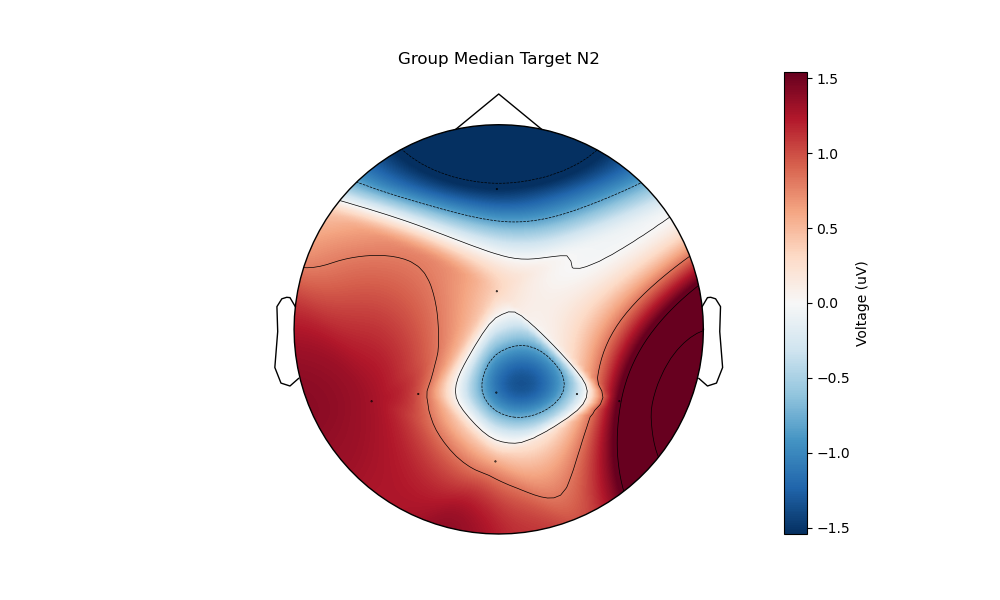
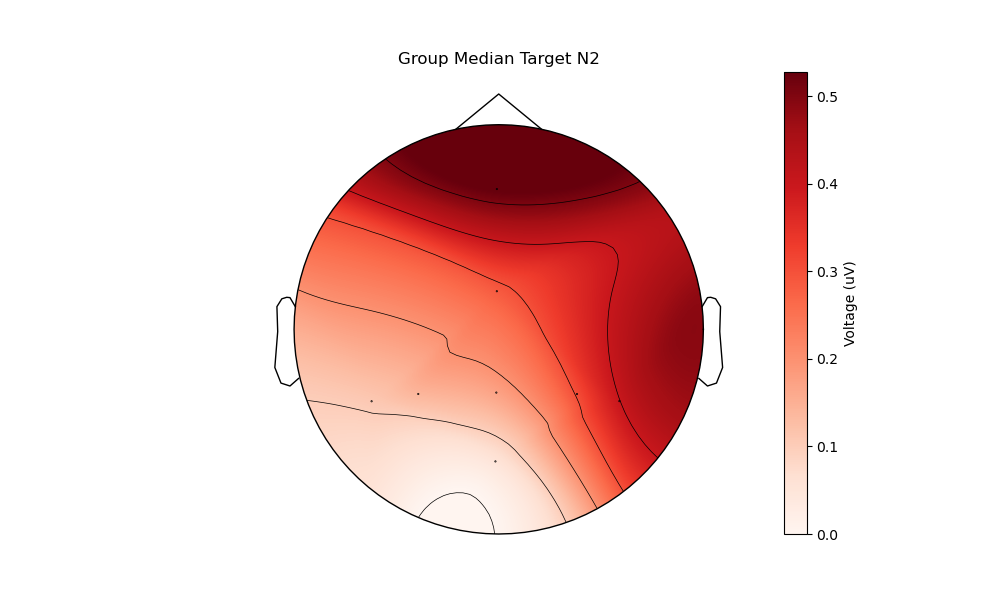
Final few pushes

Changed region(s): [[0.279, 0.21, 0.713, 0.9], [0.775, 0.18, 0.868, 0.9], [0.806, 0.12, 0.837, 0.18]]

diff --git a/plot_p300_data.py b/plot_p300_data.py
@@ -27,8 +27,8 @@ from matplotlib import pyplot as plt
 from load_p300_data import load_training_eeg
 from plot_p300_erps import get_events, epoch_data, get_erps
 from mne.stats import fdr_correction
-from plot_topo import plot_topo
-
+from plot_topo import plot_topo, get_channel_names
+import itertools
 #%% Part A: Load and Epoch the Data
 
 def load_erp_data(subject=3, data_directory='P300Data/', epoch_start_time=-0.5, epoch_end_time=1.0):
@@ -74,6 +74,7 @@ def load_erp_data(subject=3, data_directory='P300Data/', epoch_start_time=-0.5, 
     # calculate ERPs
     target_erp, nontarget_erp = get_erps(eeg_epochs, is_target_event) # get ERPs (mean EEG data)
     
+    
     return is_target_event, eeg_epochs, erp_times, target_erp, nontarget_erp
 
 #%% Part B: Calculate & Plot Parametric Confidence Intervals
@@ -109,6 +110,11 @@ def plot_confidence_intervals(eeg_epochs, erp_times, target_erp, nontarget_erp, 
     target_count = len(eeg_epochs[is_target_event])
     nontarget_count = len(eeg_epochs[~is_target_event])
     channel_count = eeg_epochs.shape[2]
+    
+    # Printing counts to make sure they are the numbers that we want 
+    print("shape of target_count to find the target_standard error:", target_count)
+    print("shape of target_count to find the nontarget_standard error:", nontarget_count)
+    print("channel_count for indexing and plotting the confidence intervals:", channel_count)
     
     # plot ERPs for events for each channel
     figure, channel_plots = plt.subplots(3,3, figsize=(10, 6))
@@ -163,6 +169,9 @@ def plot_confidence_intervals(eeg_epochs, erp_times, target_erp, nontarget_erp, 
     
     # save image
     plt.savefig(f'P300_S{subject}_channel_plots.png')
+    
+    
+    
 
 #%% Part C: Bootstrap P Values
 
@@ -193,6 +202,7 @@ def bootstrap_erps(eeg_epochs, is_target_event):
     
     # sample random indices for each channel separately
     random_indices = np.random.randint(event_count, size=event_count)
+   
     
     # randomly sampled EEG data
     eeg = eeg_epochs[random_indices]
@@ -264,6 +274,7 @@ def calculate_p_values(sampled_target_erp, sampled_nontarget_erp,target_erp, non
     real_erp_difference = test_statistic(target_erp, nontarget_erp) # identify real test statistic, difference between the target_erp and nontarget_erp data 
     bootstrapped_erp_difference = test_statistic(sampled_target_erp, sampled_nontarget_erp) # identify bootsrapped test statistic, difference between the sampled target and nontarget data
     
+   
     # preallocate p-value array
     p_values = np.zeros([sample_count, channel_count])
     
@@ -357,7 +368,8 @@ def plot_false_discovery_rate(eeg_epochs, erp_times, target_erp, nontarget_erp, 
         
         # generate times to plot
         is_significant = np.array(np.where(corrected_p_values[0, :, channel_index] == 1)) # evaluate across all samples for a channel when  p_value < fdr_threshold
-
+    
+        
         for significant in is_significant[0]: # this index [0] is the boolean index
             
             significant_times[channel_index].append(erp_times[significant]) # add the list of significant time points (conversion obtained by indexing erp_times) to significant_times in the channel index
@@ -391,7 +403,7 @@ def plot_false_discovery_rate(eeg_epochs, erp_times, target_erp, nontarget_erp, 
     
     # save image
     plt.savefig(f'P300_S{subject}_channel_plots_with_significance.png')  # save as image
-    
+    print("shape of the significant time points array:", np.array(significant_times).shape)
     return significant_times
 
 #%% Part E: Evaluate Across Subjects
@@ -468,6 +480,7 @@ def multiple_subject_evaluation(subjects=np.arange(3,11), data_directory='P300Da
                     if significant_times[channel_index][significant_index] == erp_times[time_index]: # compare if the time matches the erp_times index
                         subject_significance[channel_index,time_index] = subject_significance[channel_index,time_index]+1 # if the times do match, add 1 each time a subject is significant for that channel's sample
                         
+
     return erp_times, subject_significance
 
 def plot_subject_significance(erp_times, subject_significance):
@@ -519,11 +532,35 @@ def plot_subject_significance(erp_times, subject_significance):
     # save image
     plt.savefig('subject_significance_channel_plots.png')  
         
+ 
 
 #%% Part F: Plot a Spatial Map
 
 def plot_spatial_map(eeg_epochs, is_target_event, erp_times, subjects=np.arange(3,11), data_directory='P300Data/'):
+    
+    """
+    Description
+    -----------
+    This function plots spatial maps for the median target and nontarget ERPs (Event-Related Potentials)
+    across all subjects for N2 (200-300 ms) and P3b (300-500 ms) time ranges.
 
+    Parameters
+    ----------
+    eeg_epochs : ExSxC array of floats
+        EEG data from each channel at each event (epoch), where E is the number of epochs, S is the number of samples in each epoch, and C is the number of channels.
+    is_target_event : Ex1 Boolean array
+        Array indicating whether each event is a target (True) or nontarget (False).
+    erp_times : Sx1 array of floats
+        Array containing the times of each sample relative to the event onset in seconds.
+    subjects : array-like, optional
+        Subjects to include. Default is np.arange(3,11).
+    data_directory : str, optional
+        Directory where the ERP data is stored. Default is 'P300Data/'.
+
+    Returns
+    -------
+    None
+    """
     # declare lists for storing ERP data for each subject
     individual_median_erp_target = []
     individual_median_erp_nontarget = []    
@@ -544,7 +581,7 @@ def plot_spatial_map(eeg_epochs, is_target_event, erp_times, subjects=np.arange(
     individual_median_erp_nontarget = np.array(individual_median_erp_nontarget)
     
     # print to observe shape of array
-    print(individual_median_erp_target.shape) # (subject_count, sample_count, channel_count)
+    print("The shape of the median ERP for individual subject:", individual_median_erp_target.shape) # (subject_count, sample_count, channel_count)
     
     # calculate group median ERPs
     group_median_erp_target = np.median(individual_median_erp_target, axis=0)
@@ -555,13 +592,13 @@ def plot_spatial_map(eeg_epochs, is_target_event, erp_times, subjects=np.arange(
     
     n2_time_range = (0.2, 0.3)  # 200-300 ms
     n2_start_time, n2_end_time = n2_time_range
-    n2_start_index = np.argmin(np.abs(erp_times - n2_start_time))
-    n2_end_index = np.argmin(np.abs(erp_times - n2_end_time))
+    n2_start_index = np.argmin(np.abs(erp_times >= n2_start_time))
+    n2_end_index = np.argmin(np.abs(erp_times <= n2_end_time))
     
     p3b_time_range = (0.3, 0.5)  # 300-500 ms
     p3b_start_time, p3b_end_time = p3b_time_range
-    p3b_start_index = np.argmin(np.abs(erp_times - p3b_start_time))
-    p3b_end_index = np.argmin(np.abs(erp_times - p3b_end_time))
+    p3b_start_index = np.argmin(np.abs(erp_times >= p3b_start_time))
+    p3b_end_index = np.argmin(np.abs(erp_times <= p3b_end_time))
     
     # extract target and nontarget ERPs for N2 and P3b time ranges
     target_n2 = group_median_erp_target[n2_start_index:n2_end_index,:]
@@ -573,23 +610,26 @@ def plot_spatial_map(eeg_epochs, is_target_event, erp_times, subjects=np.arange(
     # make channel array to edit order once
     #channel_array = ['P7', 'P8','Oz','P3','Cz', 'Pz', 'P4','Fz']
     #channel_array = ['Oz','P7', 'P8','P3','Cz', 'Pz', 'P4','Fz']
-    channel_array = ['Fz','Cz','P3','Pz','P4','P7','Oz','P8']
-    
+    #channel_array = ['Fz','Cz','P3','Pz','P4','P7','Oz','P8']
+    # *channel_array = ['Oz','P7','P4','Pz','P3','Cz','Fz','P8']
+    #channel_array = ['Pz','P3','Cz','Fz','P8','Oz','P7','P4']
+    # 2: channel_array = ['Fz','Cz','P3','Pz','P4','P7','Oz','P8']
+    channel_array = ['P3','Fz','Cz','P4','Pz','P8','Oz','P7']
     # plot and save topomaps for N2 and P3b time ranges
-    # plt.figure(figsize=(10, 6))
-    # plot_topo(channel_array, channel_data=target_n2.T, title='Group Median Target N2', montage_name='standard_1020')
-    # plt.savefig('target_n2_topomap.png') 
+    plt.figure(figsize=(10, 6))
+    plot_topo(channel_array, channel_data=target_n2.T, title='Group Median Target N2', montage_name='standard_1020')
+    plt.savefig('target_n2_topomap.png') 
     
     plt.figure(figsize=(10, 6))
     plot_topo(channel_array, channel_data=nontarget_n2.T, title='Group Median Nontarget N2')
     plt.savefig('nontarget_n2_topomap.png') 
+        
+    plt.figure(figsize=(10, 6))
+    plot_topo(channel_array, channel_data=target_p3b.T, title='Group Median Target P3b')
+    plt.savefig('target_p3b_topomap.png') 
     
-    # plt.figure(figsize=(10, 6))
-    # plot_topo(channel_array, channel_data=target_p3b.T, title='Group Median Target P3b')
-    # plt.savefig('target_p3b_topomap.png') 
+    plt.figure(figsize=(10, 6))
+    plot_topo(channel_array, channel_data=nontarget_p3b.T, title='Group Median Nontarget P3b')
+    plt.savefig('nontarget_p3b_topomap.png') 
     
-    # plt.figure(figsize=(10, 6))
-    # plot_topo(channel_array, channel_data=nontarget_p3b.T, title='Group Median Nontarget P3b')
-    # plt.savefig('nontarget_p3b_topomap.png') 
-    
-    return target_n2, target_p3b, nontarget_n2, nontarget_p3b
+    return None

diff --git a/test_plot_p300_data.py b/test_plot_p300_data.py
@@ -23,6 +23,9 @@ from plot_p300_data import load_erp_data, plot_confidence_intervals, bootstrap_e
 #%% Load data
 
 is_target_event, eeg_epochs, erp_times, target_erp, nontarget_erp = load_erp_data() # default conditions
+print("shape of eeg_epochs:", eeg_epochs.shape)
+print("shape of target_erp:", target_erp.shape)
+print("shape of nontarget_erp:", nontarget_erp.shape)
 
 #%% Plot confidence intervals with standard error
 
@@ -51,7 +54,8 @@ for randomization_index in range(randomization_count): # perform 3000 randomizat
 # find test statistics
 bootstrapped_erp_difference = test_statistic(sampled_target_erp, sampled_nontarget_erp) # resampled data
 real_erp_difference = test_statistic(target_erp, nontarget_erp) # actual data
-
+print("real_erp_difference shape:", real_erp_difference.shape)
+print("bootstrapped_erp_difference shape:", bootstrapped_erp_difference.shape)
 # determine p_values
 p_values = calculate_p_values(sampled_target_erp, sampled_nontarget_erp,target_erp, nontarget_erp) # default conditions
 
@@ -64,11 +68,49 @@ significant_times = plot_false_discovery_rate(eeg_epochs, erp_times, target_erp,
 
 # perform the loop on relevant subjects
 subject_significance = multiple_subject_evaluation() # default conditions
-
+# Test to make sure the shape is what it is supposed to be 
+print("Shape of subject_significance:", subject_significance.shape)
+#%%
 # plot the number of subjects with significant sample time in a channel
 plot_subject_significance(erp_times, subject_significance)
 
 #%% Spatial map
 
 # generate scalp maps
-target_n2, target_p3b, nontarget_n2, nontarget_p3b = plot_spatial_map(eeg_epochs, is_target_event, erp_times)
+plot_spatial_map(eeg_epochs, is_target_event, erp_times)
+#%% Printing out the docstrings of all functions
+# Part A: Docstring for Load and Epoch the Data
+print("Docstring for load_erp_data function:")
+print(load_erp_data.__doc__)
+
+# Part B: Docstring for Calculate & Plot Parametric Confidence Intervals
+print("\nDocstring for plot_confidence_intervals function:")
+print(plot_confidence_intervals.__doc__)
+
+# Part C: Docstring for Bootstrap P Values
+print("\nDocstring for bootstrap_erps function:")
+print(bootstrap_erps.__doc__)
+
+# Part D: Docstring for test_statistic function
+print("\nDocstring for test_statistic function:")
+print(test_statistic.__doc__)
+
+# Part E: Docstring for calculate P Values function
+print("\nDocstring for calculate_p_values function:")
+print(calculate_p_values.__doc__)
+
+# Part F: Docstring for Plot FDR-Corrected P Values
+print("\nDocstring for plot_false_discovery_rate function:")
+print(plot_false_discovery_rate.__doc__)
+
+# Part G: Docstring for multiple_subject_evaluation function
+print("Docstring for multiple_subject_evaluation function:")
+print(multiple_subject_evaluation.__doc__)
+
+# Part H: Docstring for plot_subject_significance function
+print("\nDocstring for plot_subject_significance function:")
+print(plot_subject_significance.__doc__)
+
+# Part I: Docstring for plot_spatial_map function
+print("\nDocstring for plot_spatial_map function:")
+print(plot_spatial_map.__doc__)
